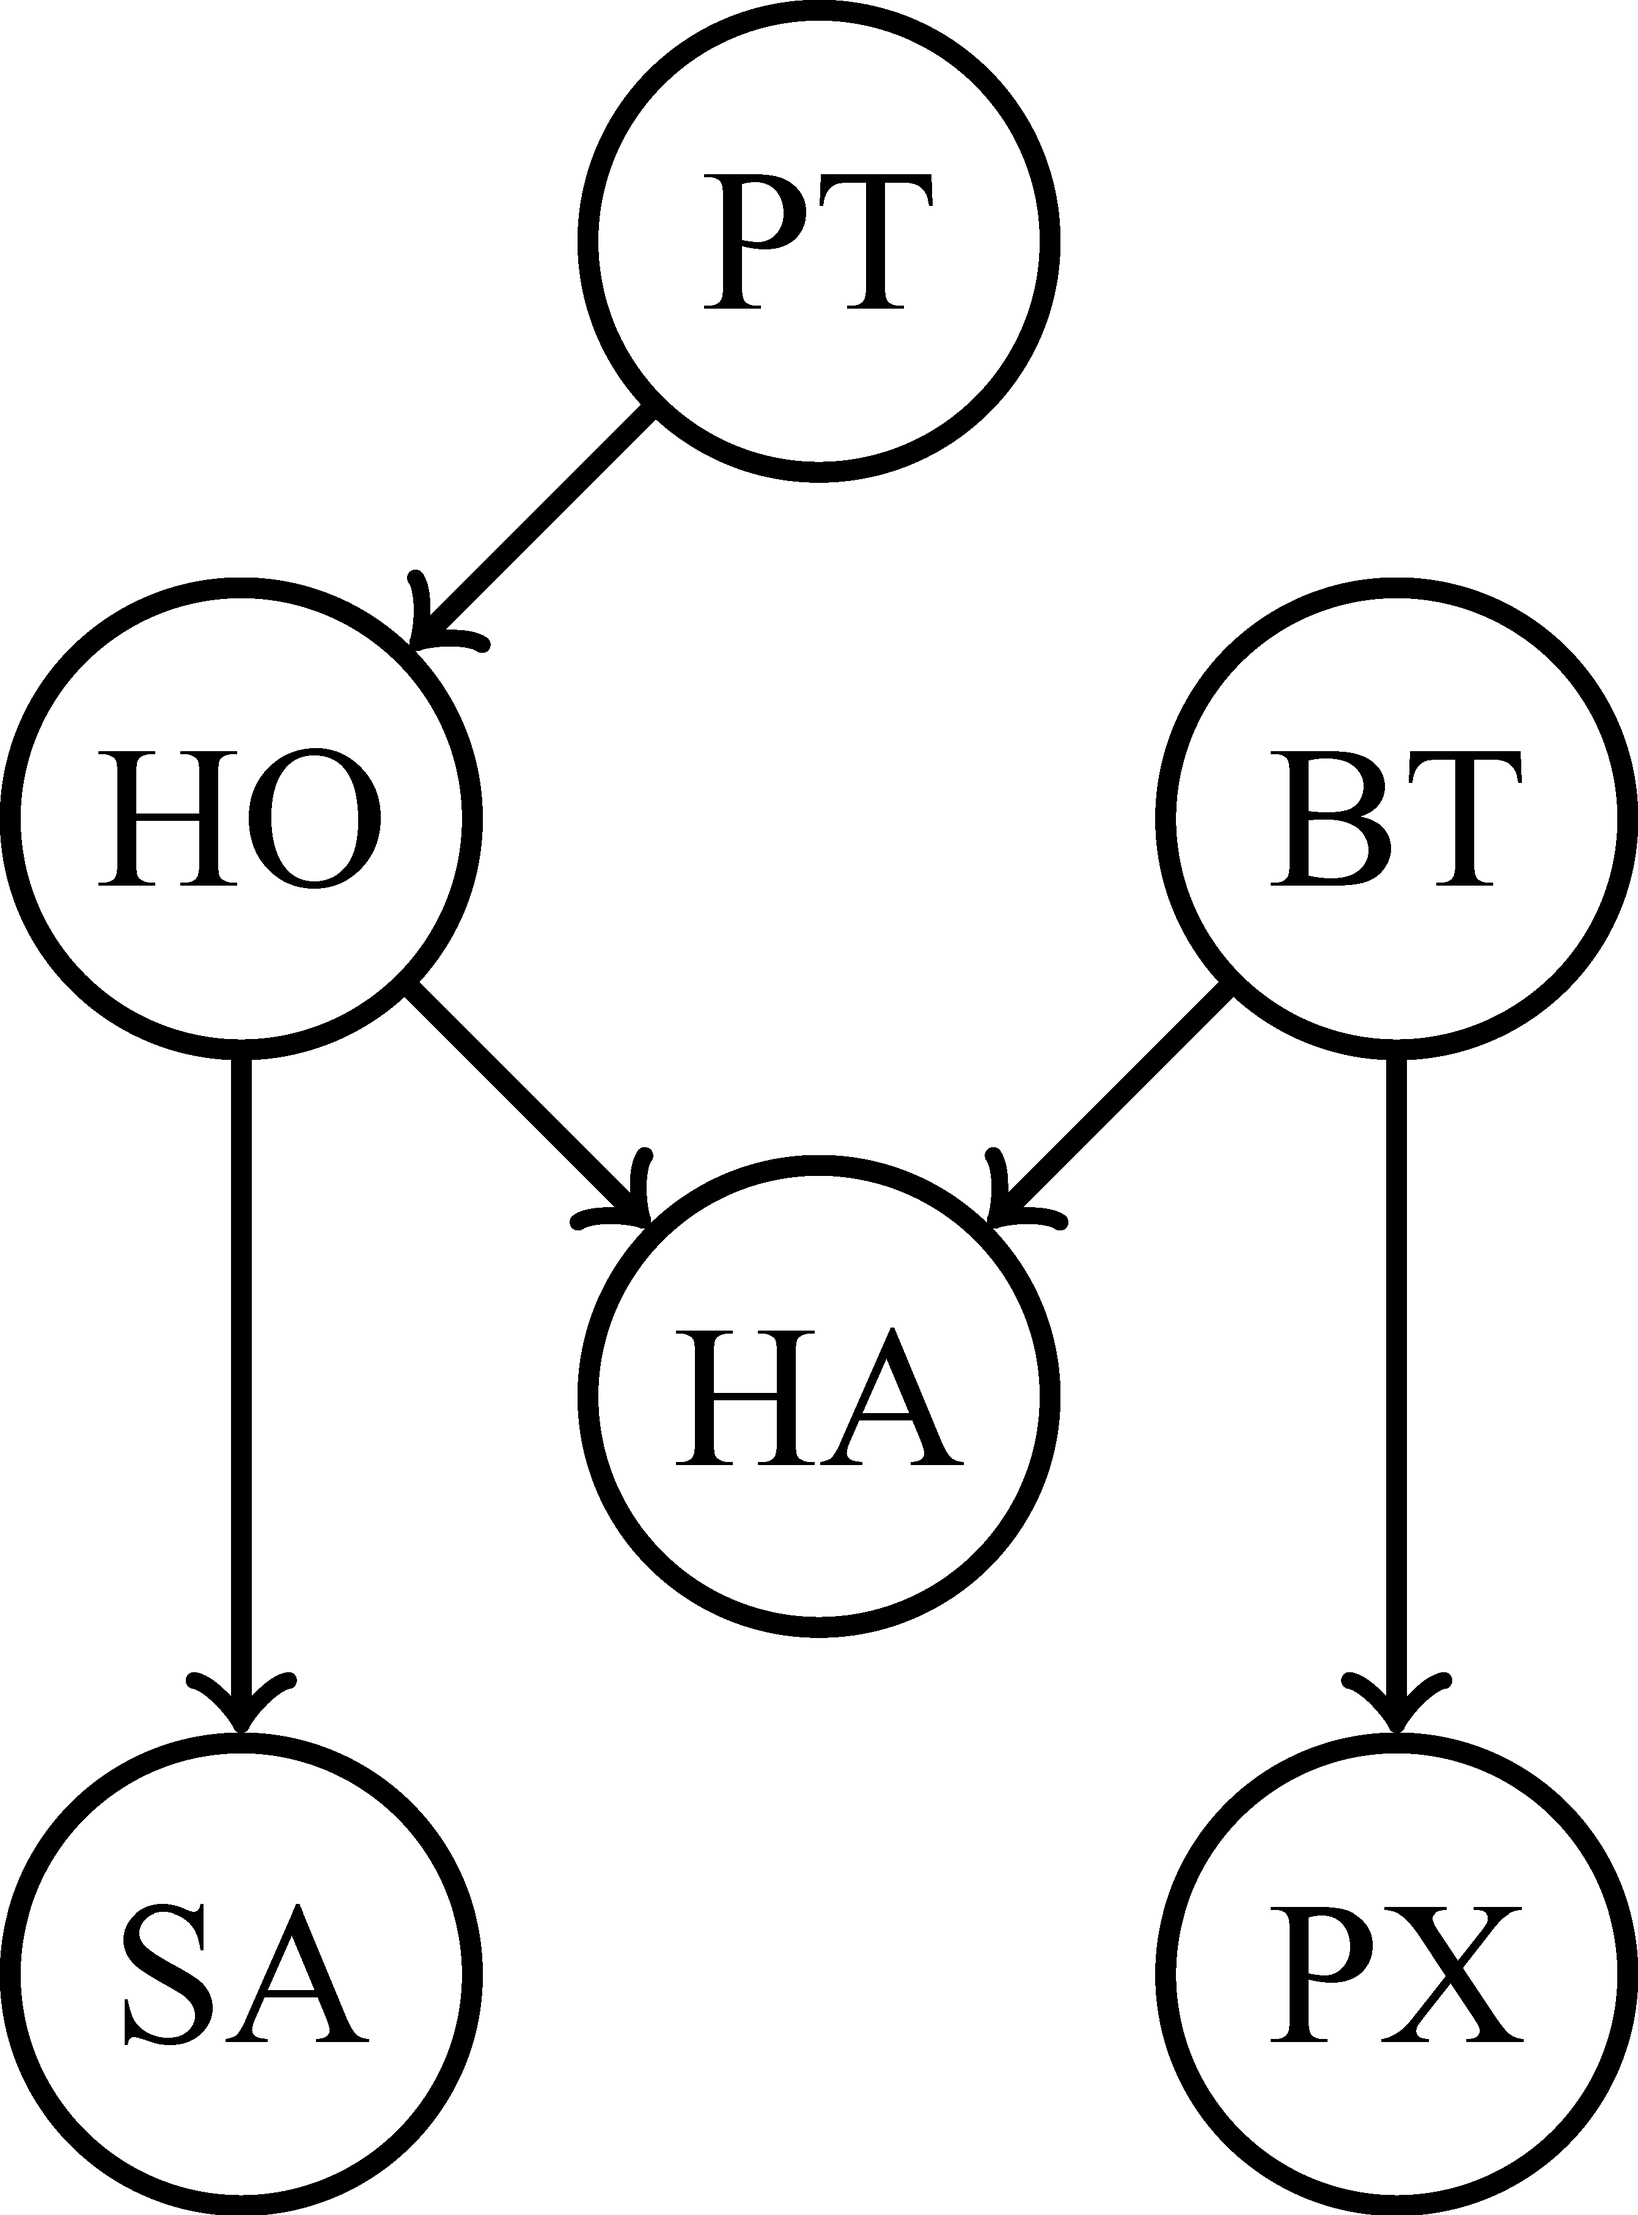
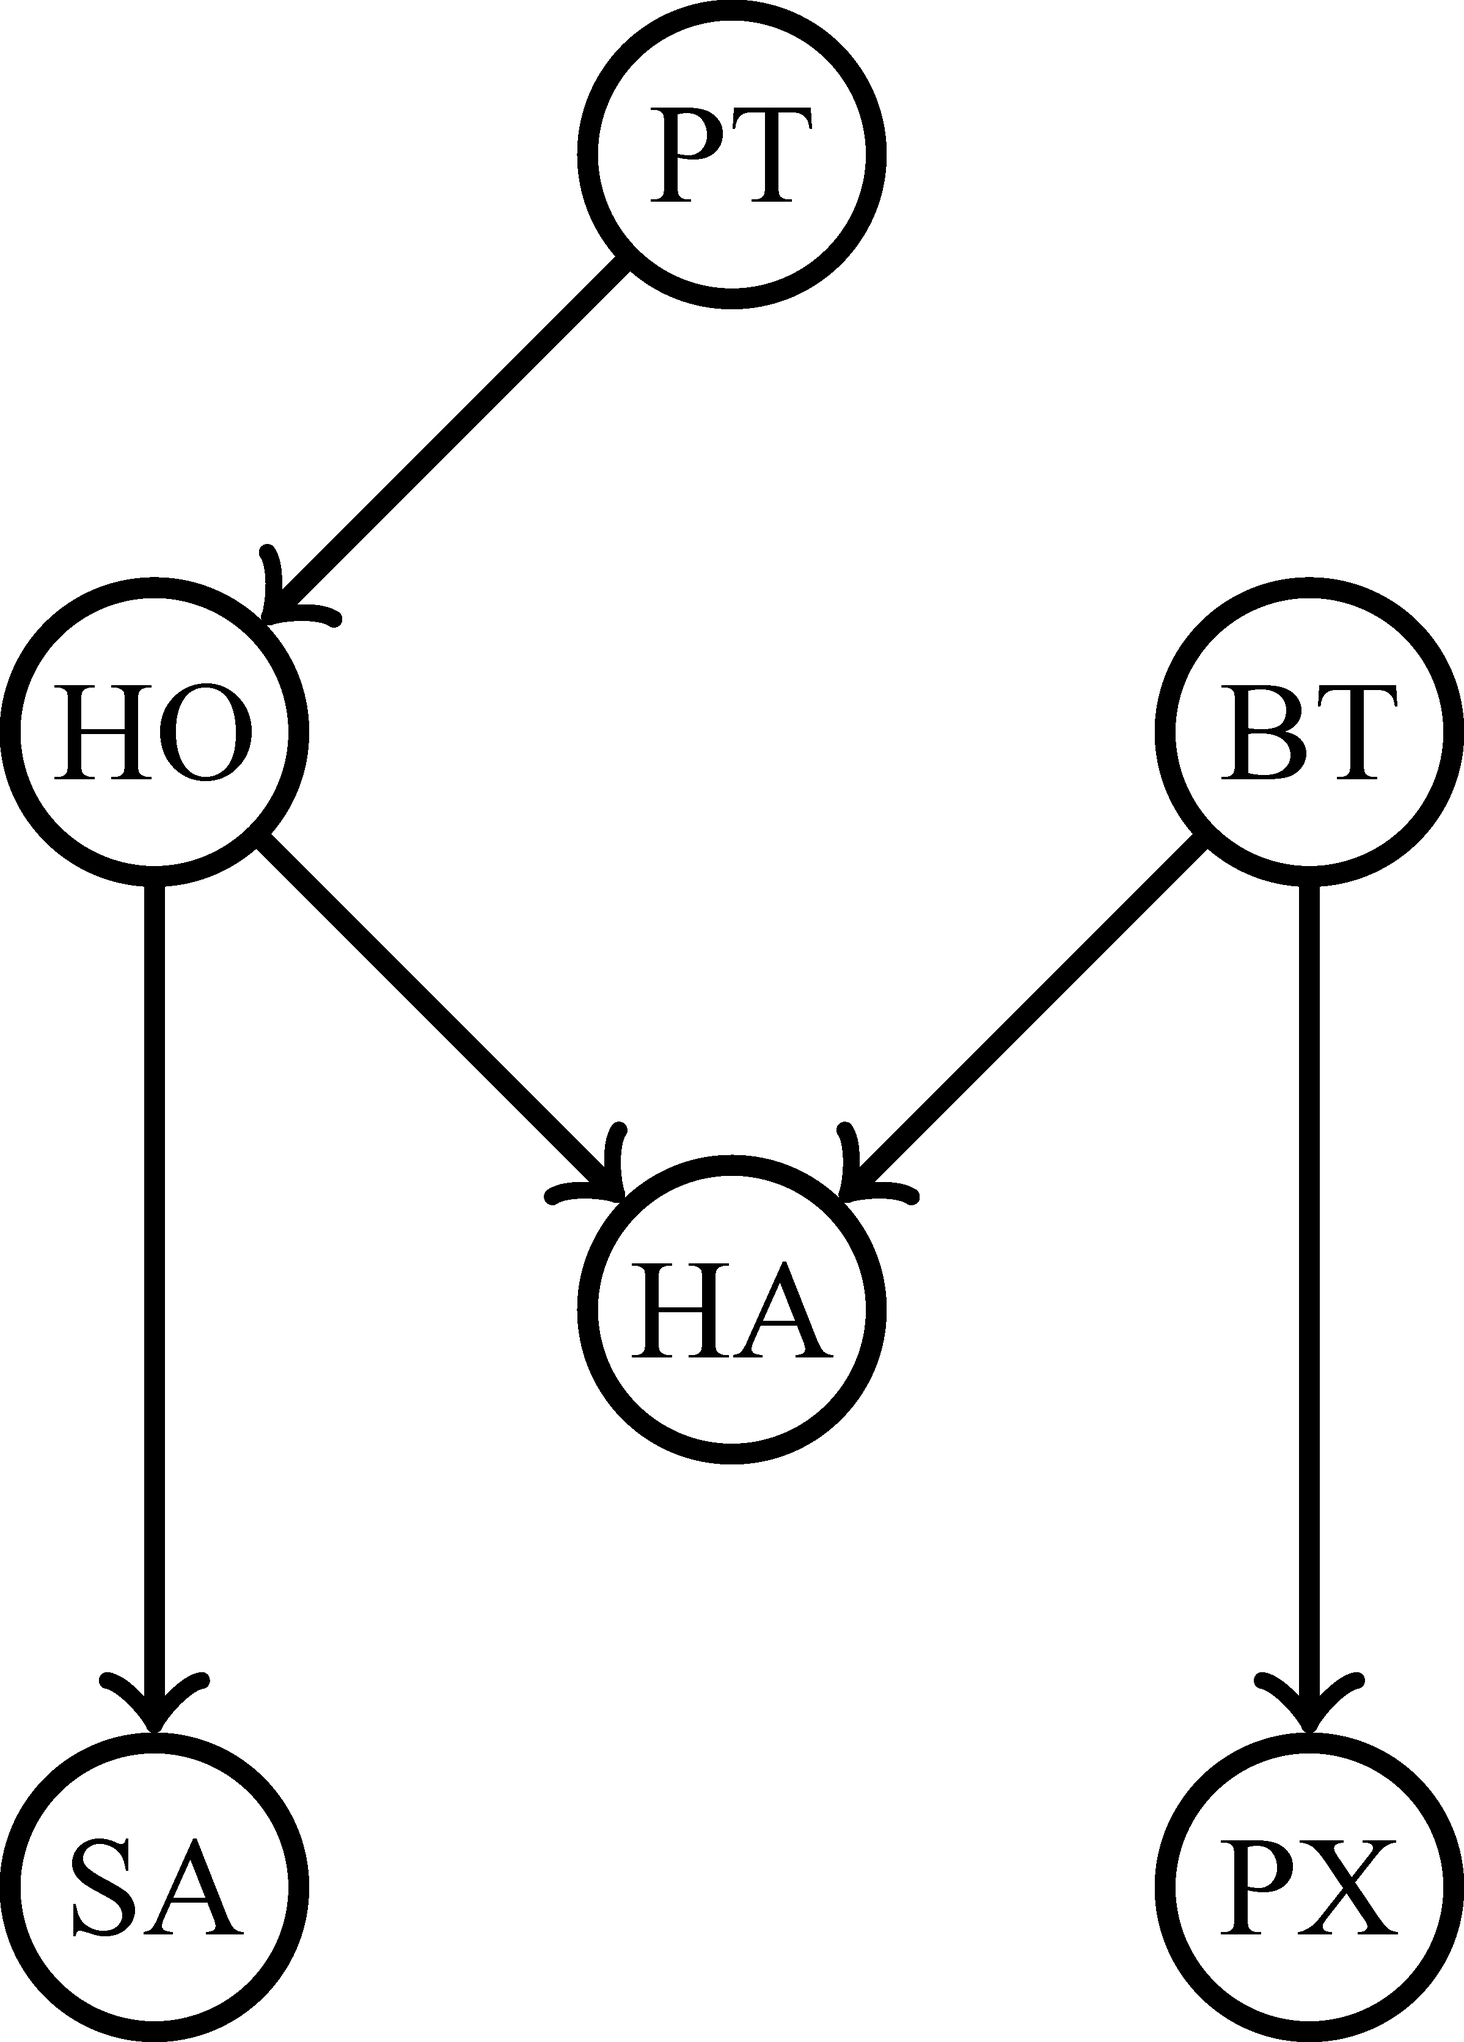
Add README

Changed region(s): [[0.0, 0.0, 1.0, 1.0], [0.2471, 0.9339, 0.278, 0.965]]

diff --git a/README/BayesianNetwork.tex b/README/BayesianNetwork.tex
@@ -41,7 +41,7 @@
 \begin{document}
 
 \begin{tikzpicture}[line width = 1pt,
-                    node/.style = {circle, draw, inner sep = 0pt, minimum size = 0.8cm}]
+                    node/.style = {circle, draw, inner sep = 0pt, minimum size = 0.5cm, font = \scriptsize}]
 
     % \grid{0}{15}{0}{13}
     \node[node] (PT) at (1,3) {PT};
@@ -50,7 +50,7 @@
     \node[node] (SA) at (0,0) {SA};
     \node[node] (PX) at (2,0) {PX};
     \node[node] (HA) at (1,1) {HA};
-    
+
     \foreach \i/\j in {PT/HO,
                        HO/HA,
                        BT/HA,
@@ -58,6 +58,6 @@
                        BT/PX}
     {
         \draw[->] (\i) -- (\j);
-    }    
+    }
 \end{tikzpicture}
 \end{document} 

diff --git a/README.md b/README.md
@@ -1,8 +1,34 @@
 # An Example of Bayesian Network
 
-The Bayesian network is shown as follows.
+The Bayesian network is shown as follows.<br><br>
 
-<img src="/README/BayesianNetwork.png" width = "100" alt="Bayesian Network" />
+<img src="/README/BayesianNetwork.png" alt="Bayesian Network" />
 
-123
+The meanings of nodes are shown as follows.
 
+* PT, Qiqi goes to the **party**.
+* HO, Qiqi has a **Hangover**.
+* BT, Qiqi has a **Brain Tumor**.
+* HA, Qiqi has a **Headache**.
+* SA, Qiqi has a **alcohol smell**.
+* PX, Qiqi has a **Pos Xray**.
+
+The conditional probabilities are shown as follows.  
+
+	P(PT) =   
+
+	P(BT) =  
+ 
+	P(HO| PT) =   
+	P(HO|!PT) =  
+
+	P(HA| HO,  BT) = 
+	P(HA| HO, !BT) =
+	P(HA|!HO,  BT) =
+	P(HA|!HO, !BT) =
+
+	P(SA| HO) =
+	P(SA|!HO) =
+
+	P(PX| BT) =
+	P(PX|!BT) =
